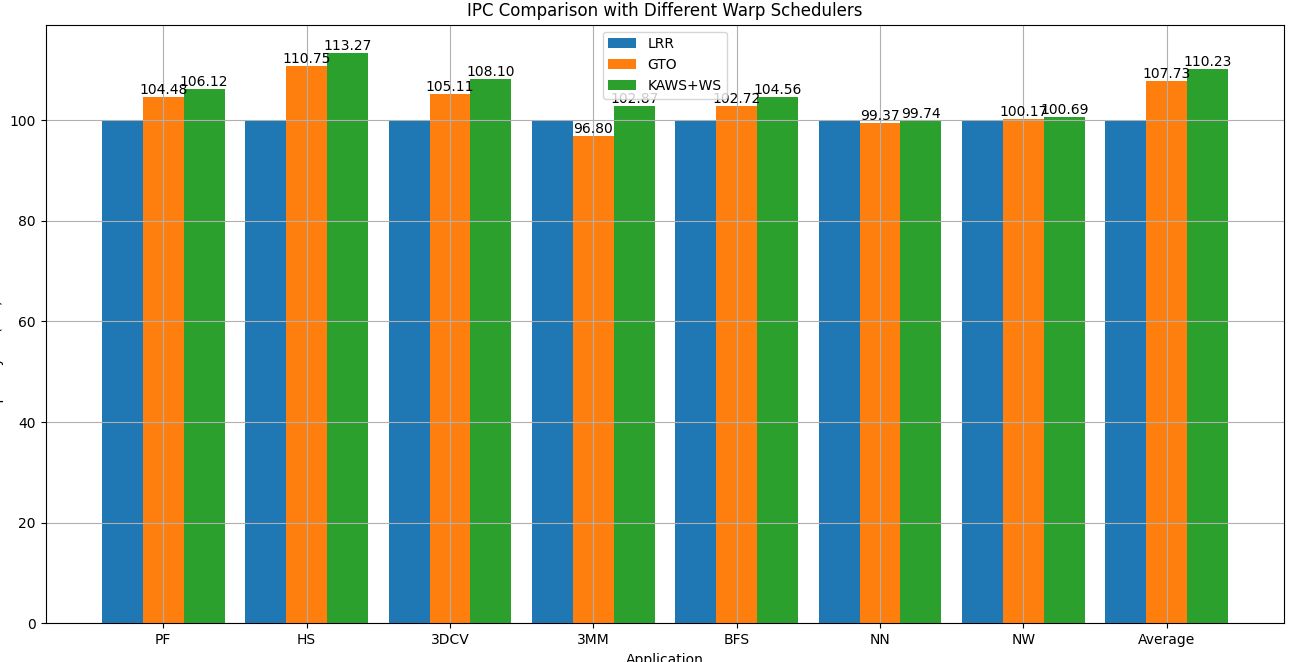
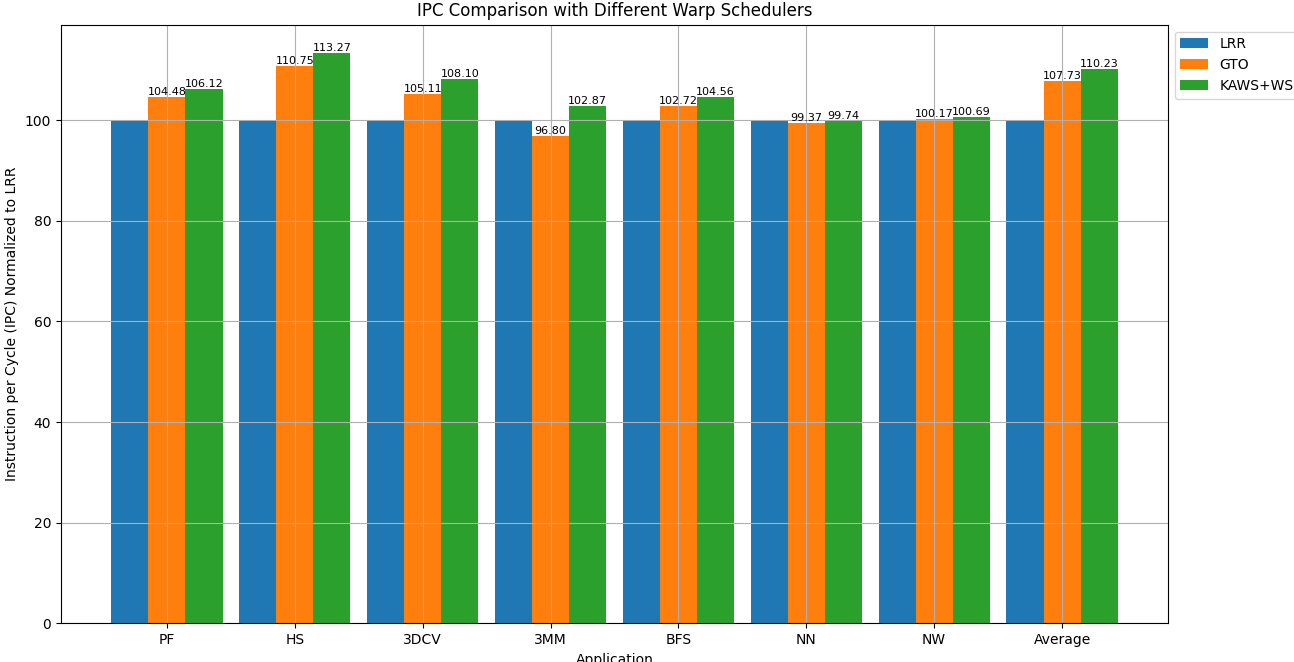
Change in plot

diff --git a/EndSem_Project/Plot Code/plot.py b/EndSem_Project/Plot Code/plot.py
@@ -74,9 +74,9 @@ kaws = [
 gto= [(100*value)/float(lrr[index]) for index,value in enumerate(gto)]
 kaws= [(100*value)/float(lrr[index]) for index,value in enumerate(kaws)]
 lrr= [(100*value)/float(lrr[index]) for index,value in enumerate(lrr)]
-plt.figure(figsize=(20, 10))
+plt.figure(figsize=(15, 10))
 
-bar_width = 0.285  # Width of the bars
+bar_width = 0.29  # Width of the bars
 index = range(len(applications))  # Index for x-axis positioning
 
 # Plot IPC for Scheduler 1
@@ -95,7 +95,7 @@ def add_labels(bars):
         va = 'bottom' if bars == bars3 else 'bottom'
         if bars != bars1 :
          plt.text(bar.get_x() + bar.get_width() / 2, height, f'{height:0.2f}',
-                  ha='center', va=va, fontsize=10)
+                  ha='center', va=va, fontsize=8)
 
 add_labels(bars1)
 add_labels(bars2)
@@ -106,7 +106,7 @@ plt.xlabel('Application')
 plt.ylabel('Instruction per Cycle (IPC) Normalized to LRR')
 plt.title(title)
 plt.xticks([i + bar_width for i in index], applications)
-plt.legend()
+plt.legend(loc='upper left',bbox_to_anchor=(1,1))
 
 # Show the plot
 plt.grid(True)
